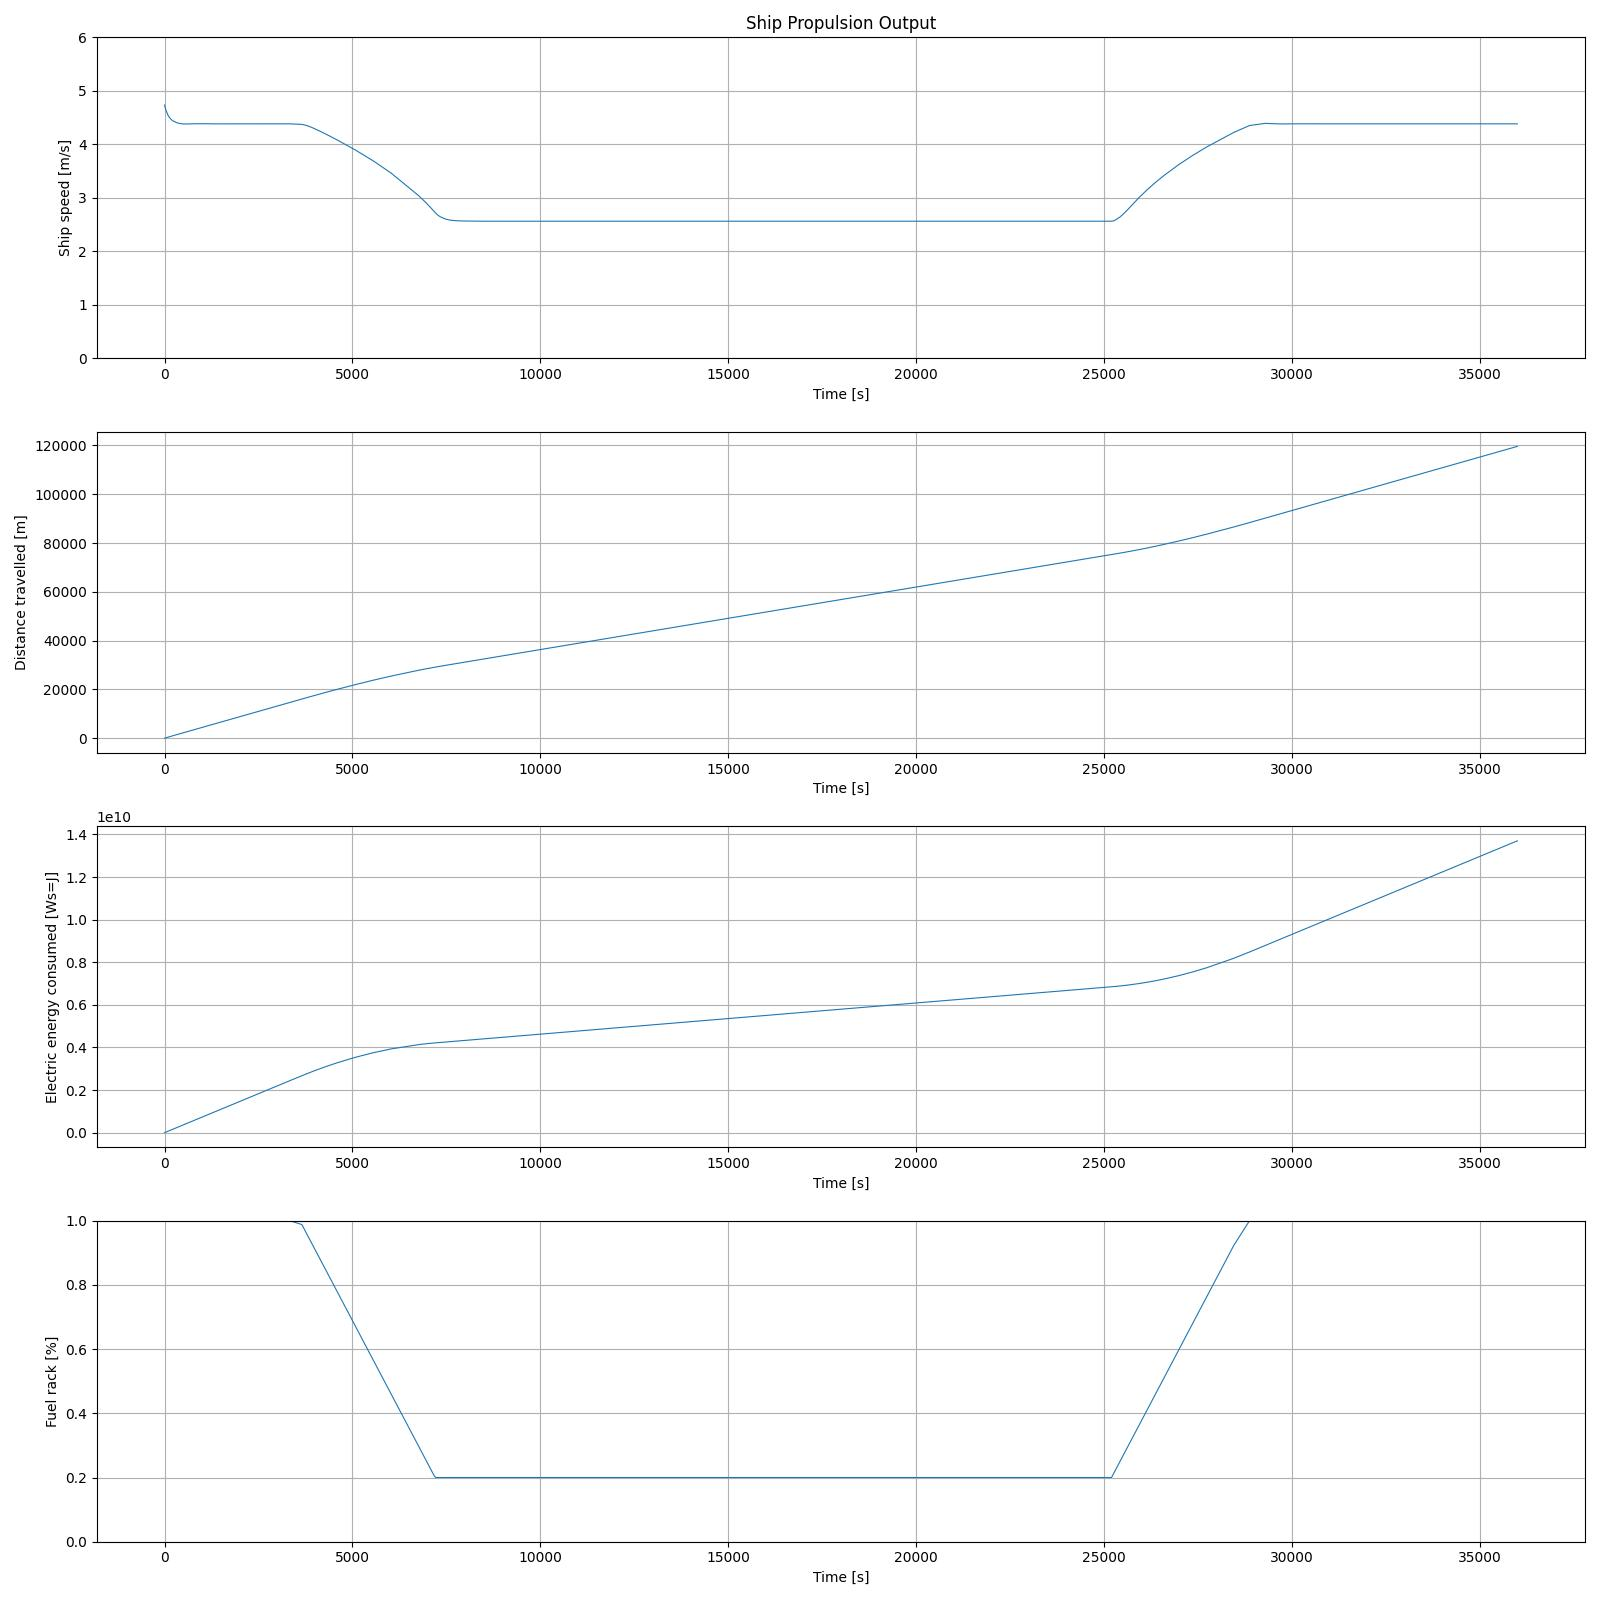
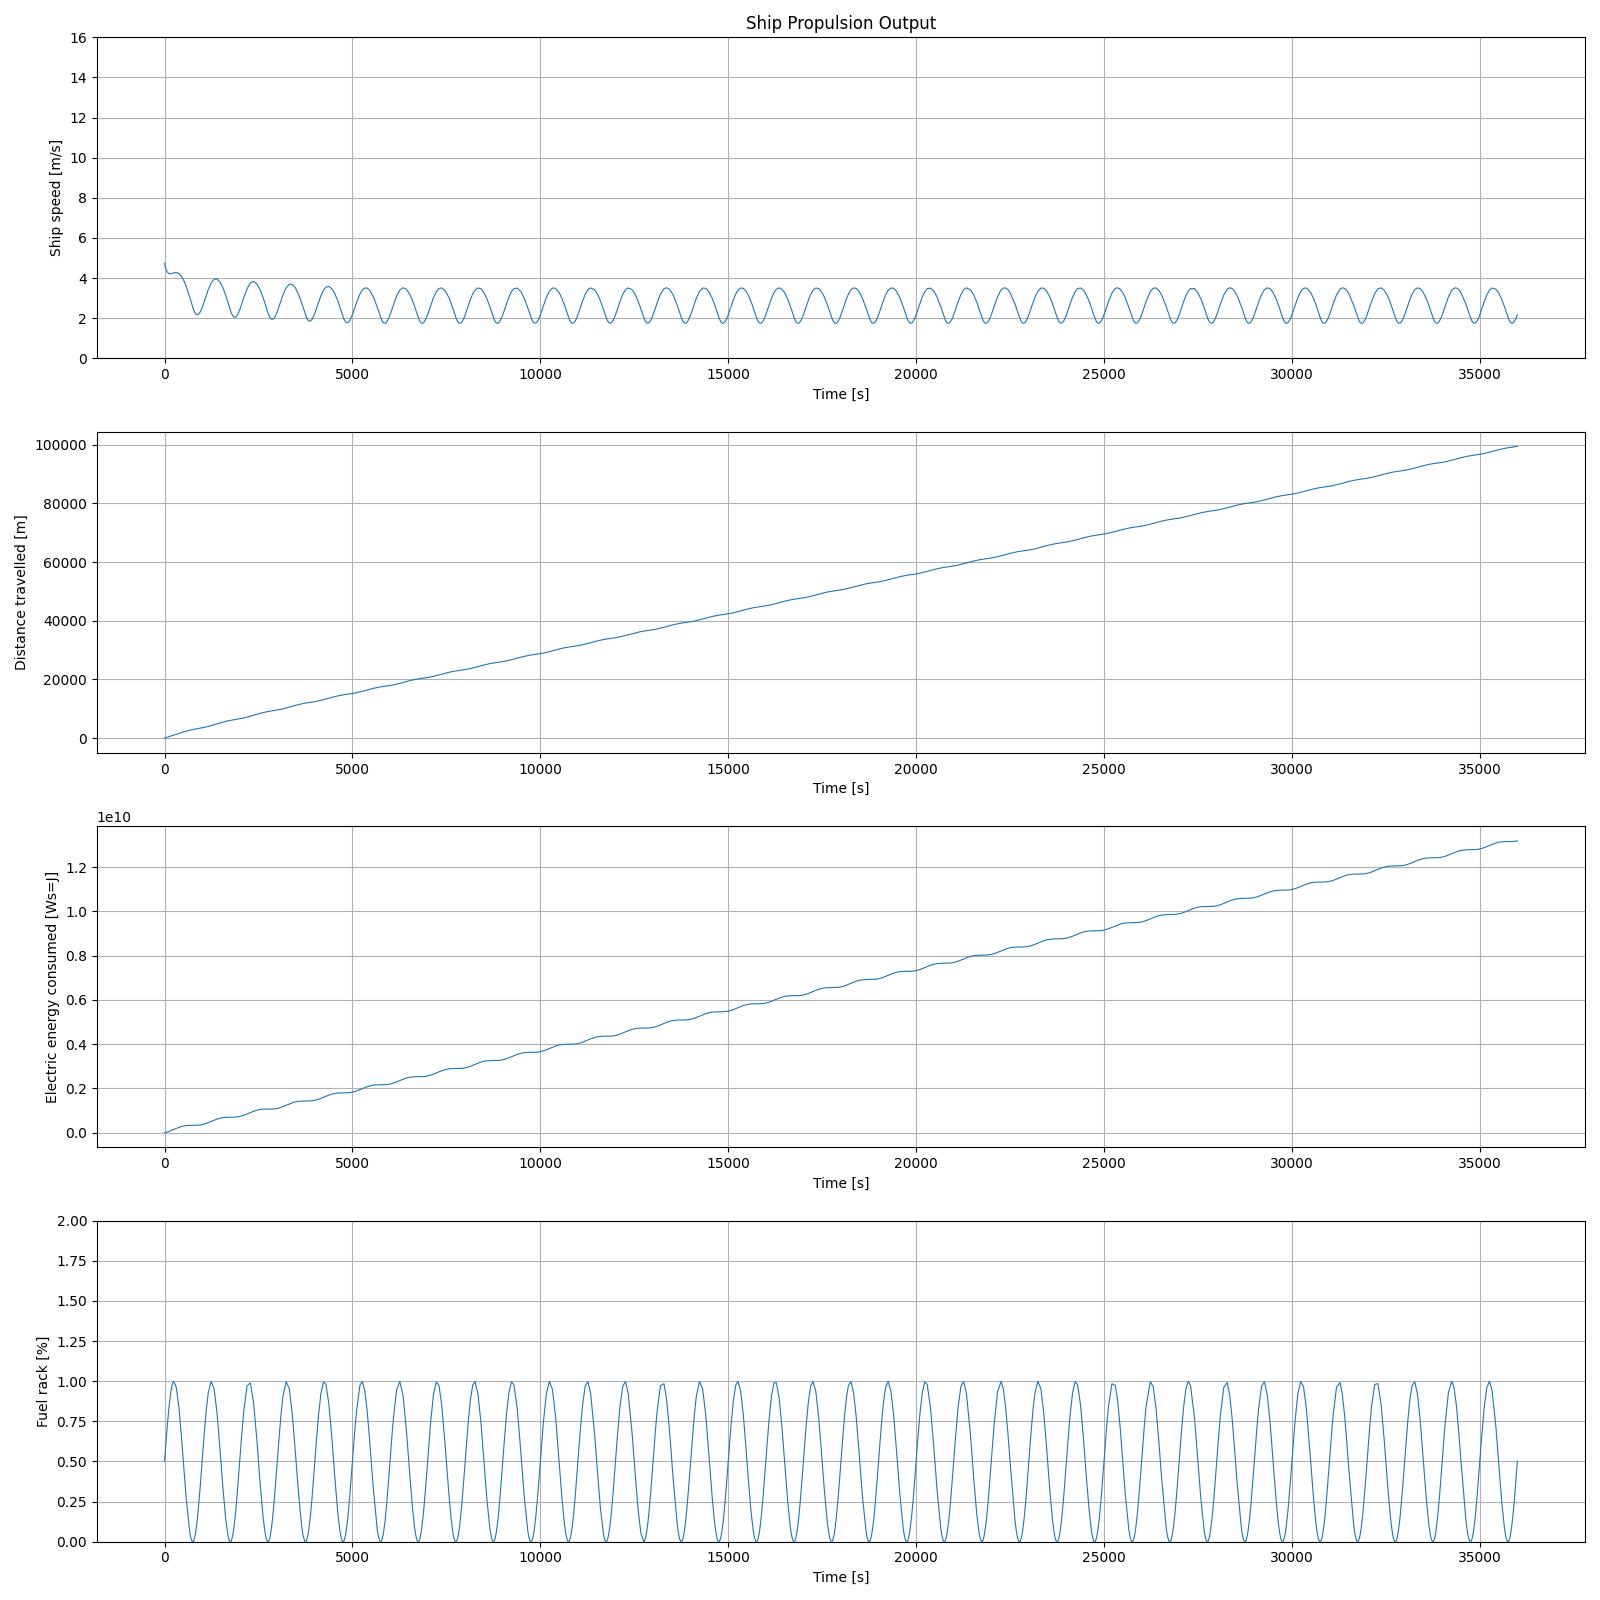
040526

diff --git a/WVA1_start_model_2026.py b/WVA1_start_model_2026.py
@@ -26,10 +26,10 @@ from scipy.integrate import BDF, LSODA, RK23, RK45, Radau, solve_ivp
 Total_time = 36000 #[s] Total simulation time
 
 #EXPERIMENT 1
-# X_iv_t_control = np.array([0,        0.2*Total_time,  0.4*Total_time, 0.6*Total_time, 0.8*Total_time, Total_time]) #[s] setting time point
-# X_fs    =        np.array([1.0,      0.75,            0.5,            0.25,           0.01,           0.01      ]) #[-] fuel rack factor, 1 is maximum
-# Y_iv_t_control = np.array([0,        0.2*Total_time,  0.4*Total_time, 0.6*Total_time, 0.8*Total_time, Total_time]) #[s] setting time point
-# Y_df    =        np.array([1,        1.0,             1.0,            1.0,            1.0,            1.0       ]) #[-] disturbance factor
+# X_iv_t_control = np.array([0,        0.2*Total_time,  0.2*Total_time,  0.4*Total_time, 0.4*Total_time, 0.6*Total_time, 0.6*Total_time, 0.8*Total_time, 0.8*Total_time, Total_time]) #[s] setting time point
+# X_fs    =        np.array([1.0,      1.0,             0.75,            0.75,           0.5,            0.5,            0.25,           0.25,           0.01,           0.01      ]) #[-] fuel rack factor, 1 is maximum
+# Y_iv_t_control = np.array([0,        0.2*Total_time,  0.4*Total_time,  0.6*Total_time, 0.8*Total_time, Total_time]) #[s] setting time point
+# Y_df    =        np.array([1,        1.0,             1.0,             1.0,            1.0,            1.0       ]) #[-] disturbance factor
 
 #EXPERIMENT 2
 # X_iv_t_control = np.array([0,        Total_time                     ]) #[s] setting time point
@@ -45,10 +45,11 @@ Total_time = 36000 #[s] Total simulation time
 # Y_df    =        np.array([1,        1 ])                #[-] disturbance factor
 
 #EXPERIMENT 4
-#Imput
-# X_fs_amp= 
-# X_fs_freq=
-# X_fs_base=
+#Input
+# X_fs_amp= 0.5
+# X_fs_freq= 0.001
+# X_fs_base= 0.5
+# X_fs_phase = 0
 # def calc_X_fs_set(t):
 #     return X_fs_base + X_fs_amp * np.sin(2 * np.pi * X_fs_freq * t + X_fs_phase)
 # X_fs_set = calc_X_fs_set(t)
@@ -59,6 +60,15 @@ Total_time = 36000 #[s] Total simulation time
 # Y_iv_t_control = np.array([0,        (5/36)*Total_time,   Total_time]) #[s] setting time point
 # Y_df    =        np.array([1,        1.5,             1.5,          ]) #[-] disturbance factor
 
+
+# dt = 1
+# X_iv_t_control = np.arange(dt, Total_time + dt, dt)      #[s] setting time point
+# print(X_iv_t_control)
+# X_fs    =        X_fs_base + X_fs_amp * np.sin(2 * np.pi * X_fs_freq * X_iv_t_control + X_fs_phase)  #[-] fuel rack factor, 20 is maximum apparently
+# print(X_fs)
+# Y_iv_t_control = np.array([0,        (5/36)*Total_time,   Total_time]) #[s] setting time point
+# Y_df    =        np.array([1,        1.5,                 1.5,          ]) #[-] disturbance factor
+
 #EXPERIMENT 5
 # X_iv_t_control = np.array([0,        0.1*Total_time,  0.2*Total_time, 0.5*Total_time, 0.6*Total_time, 0.7*Total_time,  0.8*Total_time, Total_time]) #[s] setting time point
 # X_fs    =        np.array([1.0,      1.0,             0.2,            0.2,            0.2,            0.2,             1.0,           1.0         ]) #[-] fuel rack factor, 1 is maximum
@@ -67,9 +77,9 @@ Total_time = 36000 #[s] Total simulation time
 
 #ORIGINEEL
 X_iv_t_control = np.array([0,        0.1*Total_time,  0.2*Total_time, 0.5*Total_time, 0.6*Total_time, 0.7*Total_time,  0.8*Total_time, Total_time]) #[s] setting time point
-X_fs    =        np.array([1.0,      1.0,             0.2,            0.2,            0.2,            0.2,             1.0,           1.0         ]) #[-] fuel rack factor, 1 is maximum
-Y_iv_t_control = np.array([0,        0.1*Total_time, 0.2*Total_time, 0.5*Total_time, 0.6*Total_time, 0.7*Total_time, Total_time]) #[s] setting time point
-Y_df    =        np.array([1,        1.0,            1.0,            1.0,            1.0,            1.0,            1.0         ]) #[-] disturbance factor
+X_fs    =        np.array([1.0,      1.0,             0.2,            0.2,            0.2,            0.2,             1.0,           1.0        ]) #[-] fuel rack factor, 1 is maximum
+Y_iv_t_control = np.array([0,        0.1*Total_time,  0.2*Total_time, 0.5*Total_time, 0.6*Total_time, 0.7*Total_time,  Total_time  ]) #[s] setting time point
+Y_df    =        np.array([1,        1.0,             1.0,            1.0,            1.0,            1.0,             1.0         ]) #[-] disturbance factor
 
 
 #Time step setting
@@ -260,7 +270,7 @@ width = 0.8 #Plot line width setting
 
 plt.figure(figsize=(16,16))
 plt.subplot(4, 1, 1)
-plt.ylim(0,6)
+plt.ylim(0,16)
 plt.plot(t_out, v_s_out, linewidth=width)
 plt.title('Ship Propulsion Output')
 plt.xlabel('Time [s]')
@@ -277,7 +287,7 @@ plt.xlabel('Time [s]')
 plt.ylabel('Electric energy consumed [Ws=J]')
 plt.grid(True)
 plt.subplot(4, 1, 4)
-plt.ylim(0,1)
+plt.ylim(0,2)
 plt.plot(t_out, X_out, linewidth=width)
 plt.xlabel('Time [s]')
 plt.ylabel('Fuel rack [%]')